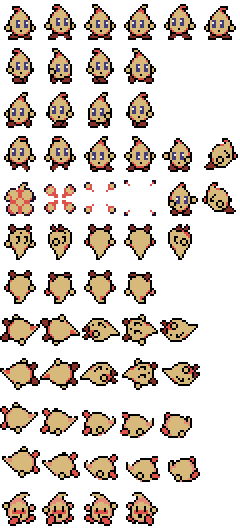
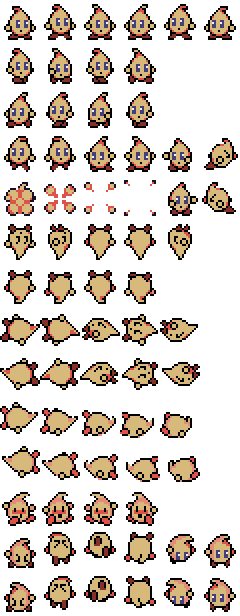
Implemented "release ability" action, with new animation and controller

diff --git a/src/actors/player.js b/src/actors/player.js
@@ -1,5 +1,5 @@
-define("Player", ['Actor', 'Tile', 'Prop', 'Enemy', 'Point', 'ParticleSystem', 'SlamAttack', 'ChargeAttack'], 
-    function (Actor, Tile, Prop, Enemy, Point, ParticleSystem, SlamAttack, ChargeAttack) {
+define("Player", ['Actor', 'Tile', 'Prop', 'Enemy', 'Point', 'ParticleSystem', 'Attack', 'ChargeAttack'], 
+    function (Actor, Tile, Prop, Enemy, Point, ParticleSystem, Attack, ChargeAttack) {
 
     class Player extends Actor {
 
@@ -31,9 +31,10 @@ define("Player", ['Actor', 'Tile', 'Prop', 'Enemy', 'Point', 'ParticleSystem', '
             this.interactionOrigin = new Point();
             this.initInteractionElements();
 
-            this.aerialAttack = new SlamAttack(["aerialMain", "aerialRecovery"]);
+            this.aerialAttack = new Attack(["aerialMain", "aerialRecovery"]);
             this.chargeAttack = new ChargeAttack(["chargeWindup", "chargeMain", "chargeSlide"]);
             this.chargeAttackWeak = new ChargeAttack(["chargeWindupWeak", "chargeMainWeak", "chargeSlideWeak"]);
+            this.releaseFlip = new Attack(["releaseFlip"]);
 
             this.currentAttack = null;
         }
@@ -62,6 +63,9 @@ define("Player", ['Actor', 'Tile', 'Prop', 'Enemy', 'Point', 'ParticleSystem', '
                     rightChargeSlide: [54, 58, "rightChargeSlideFinished", .2], rightChargeSlideFinished: 58,
                     leftChargeSlide: [60, 64, "leftChargeSlideFinished", .2], leftChargeSlideFinished: 64,
                     rightKnockback: [66, 67, "rightKnockback", .16], leftKnockback: [68, 69, "leftKnockback", .16],
+
+                    rightFlip: { frames: [72, 73, 74, 75, 76, 76, 77, 77], next: "rightFlipFinished", speed: 0.2 }, rightFlipFinished: 77,
+                    leftFlip: { frames: [78, 79, 80, 81, 82, 82, 83, 83], next: "leftFlipFinished", speed: 0.2 }, leftFlipFinished: 83,
                     
                     finished: 11
                 }
@@ -159,6 +163,9 @@ define("Player", ['Actor', 'Tile', 'Prop', 'Enemy', 'Point', 'ParticleSystem', '
             else if (!this.currentController.acceptInput || this.currentController.currentJumps <= 0)
                 return;
             
+            if (this.currentAttack == this.releaseFlip)
+                this.currentAttack.endAttack(this);
+
             this.velocity.Y = -this.currentController.jumpVelocity;
             this.currentController.currentJumps -= 1;
             
@@ -174,7 +181,7 @@ define("Player", ['Actor', 'Tile', 'Prop', 'Enemy', 'Point', 'ParticleSystem', '
         }
 
         attack() {
-            if (this.frozen || this.currentAttack ? this.currentAttack.active : false)
+            if (!this.isAbleToAttack())
                 return;
 
             if (this.goingLeft || this.goingRight) {
@@ -192,6 +199,23 @@ define("Player", ['Actor', 'Tile', 'Prop', 'Enemy', 'Point', 'ParticleSystem', '
             if (this.currentAttack == this.chargeAttack || this.currentAttack == this.chargeAttackWeak) {
                 this.currentAttack.beginKnockback(this);
             }
+        }
+
+        release() {
+            if (!this.isAbleToAttack())
+                return;
+            
+            if (this.jumpHeld)
+                this.jumpRelease();
+            this.currentAttack = this.releaseFlip;
+            this.currentAttack.beginAttack(this);
+        }
+
+        isAbleToAttack() {
+            if (this.frozen || this.currentAttack ? this.currentAttack.active : false)
+                return false;
+            else
+                return true;
         }
 
         interact() {

diff --git a/src/action/attack.js b/src/action/attack.js
@@ -38,7 +38,7 @@ define("Attack", ['CollisionBox', 'ActorController'], function(CollisionBox, Act
                 });   
             }
 
-            return new AttackPhase(phaseData["duration"], phaseData["animation"], phaseController, phaseHitboxes, phaseData["directional"]);
+            return new AttackPhase(phaseData["duration"], phaseData["animation"], phaseController, phaseHitboxes, phaseData["directional"], phaseData["aerial"]);
         }
 
         beginAttack(hostActor) {
@@ -61,6 +61,8 @@ define("Attack", ['CollisionBox', 'ActorController'], function(CollisionBox, Act
                 if (!this.active)
                     return false;
             }
+            if (this.currentPhase.aerial && hostActor.onGround)
+                this.progressAttack(hostActor);
 
             this.currentPhase.updatePhase();
 
@@ -93,7 +95,7 @@ define("Attack", ['CollisionBox', 'ActorController'], function(CollisionBox, Act
 
     class AttackPhase {
 
-        constructor(duration, animation, controller, hitboxes, directional) {
+        constructor(duration, animation, controller, hitboxes, directional, aerial) {
             this.duration = duration;
             this.animation = animation;
             this.controller = controller;
@@ -102,11 +104,10 @@ define("Attack", ['CollisionBox', 'ActorController'], function(CollisionBox, Act
 
             this.phaseTimer = this.duration;
             this.directional = directional;
+            this.aerial = aerial;
         }
 
         updatePhase() {
-            // if (this.animation === "Knockback")
-            //     console.log(this.phaseTimer);
             this.phaseTimer -= 1;
         }
 
@@ -140,7 +141,6 @@ define("Attack", ['CollisionBox', 'ActorController'], function(CollisionBox, Act
             if (this.directional) {
                 phaseAnimation = (hostActor.orientation === "left" ? "left" : "right") + this.animation;
             }
-            // console.log(phaseAnimation);
             hostActor.state = phaseAnimation;
             hostActor.currentController.setAnimation = phaseAnimation;
         }

diff --git a/src/action/chargeAttack.js b/src/action/chargeAttack.js
@@ -19,17 +19,6 @@ define("ChargeAttack", ['Attack', 'CollisionBox', 'ActorController'], function(A
             super.beginAttack(hostActor);
         }
 
-        // setOrientation(orientation) {
-        //     if (orientation === "left") {
-        //         this.mainPhase.controller.staticVelocityX = -this.chargeSpeed;
-        //         this.knockbackPhase.controller.staticVelocityX = -this.knockbackSpeed;
-        //     }
-        //     else {
-        //         this.mainPhase.controller.staticVelocityX = this.chargeSpeed;
-        //         this.knockbackPhase.controller.staticVelocityX = this.knockbackSpeed;
-        //     }
-        // }
-
         beginKnockback(player) {
             if (this.currentPhase !== this.mainPhase)
                 return;

diff --git a/src/actors/actorController.js b/src/actors/actorController.js
@@ -34,6 +34,7 @@ define("ActorController", ['Point'], function(Point) {
             this.force = this.originalForce.get();
 
             this.acceptInput = motionData["acceptInput"] != null ? motionData["acceptInput"] : true;
+            this.inheritJumps = motionData["inheritJumps"] != null ? motionData["inheritJumps"] : true;
             this.setAnimation = motionData["setAnimation"];
         }
 
@@ -43,6 +44,9 @@ define("ActorController", ['Point'], function(Point) {
 
         init(actor) {
             actor.velocity.add(this.force);
+            
+            if (this.inheritJumps && actor.currentController)
+                this.currentJumps = Math.min(this.maxJumps, actor.currentController.currentJumps);
         }
 
         updateSpeed(actor) {

diff --git a/src/dependencies.js b/src/dependencies.js
@@ -26,7 +26,6 @@ require.config({
       "player": "src/actors/player",
 
       "attack": "src/action/attack",
-      "slamAttack": "src/action/slamAttack",
       "chargeAttack": "src/action/chargeAttack",
 
       "level": "src/levels/level",
@@ -41,7 +40,7 @@ requirejs(['point'], function() {
 
         requirejs(['tile', 'actor', 'attack', 'prop', 'transition', 'particleSystem', 'dialogueBox'], function() {
 
-            requirejs(['switchProp', 'triggerProp', 'enemy', 'slamAttack', 'chargeAttack'], function() {
+            requirejs(['switchProp', 'triggerProp', 'enemy', 'chargeAttack'], function() {
 
                 requirejs(['player', 'objectFactory'], function() {
 

diff --git a/src/actors/actor.js b/src/actors/actor.js
@@ -201,8 +201,8 @@ function(       GameObject, Point, CollisionBox, ActorController) {
         }
         
         setController(newController) {
+            newController.init(this);
             this.currentController = newController;
-            this.currentController.init(this);
         }
 
         setGrounded() {

diff --git a/src/game.js b/src/game.js
@@ -241,6 +241,9 @@ require(
             case 74: // j
                 player.attack();
                 break;
+            case 75: // k
+                player.release();
+                break;
 
             // case 82: // r
             //     player.holdReset();
